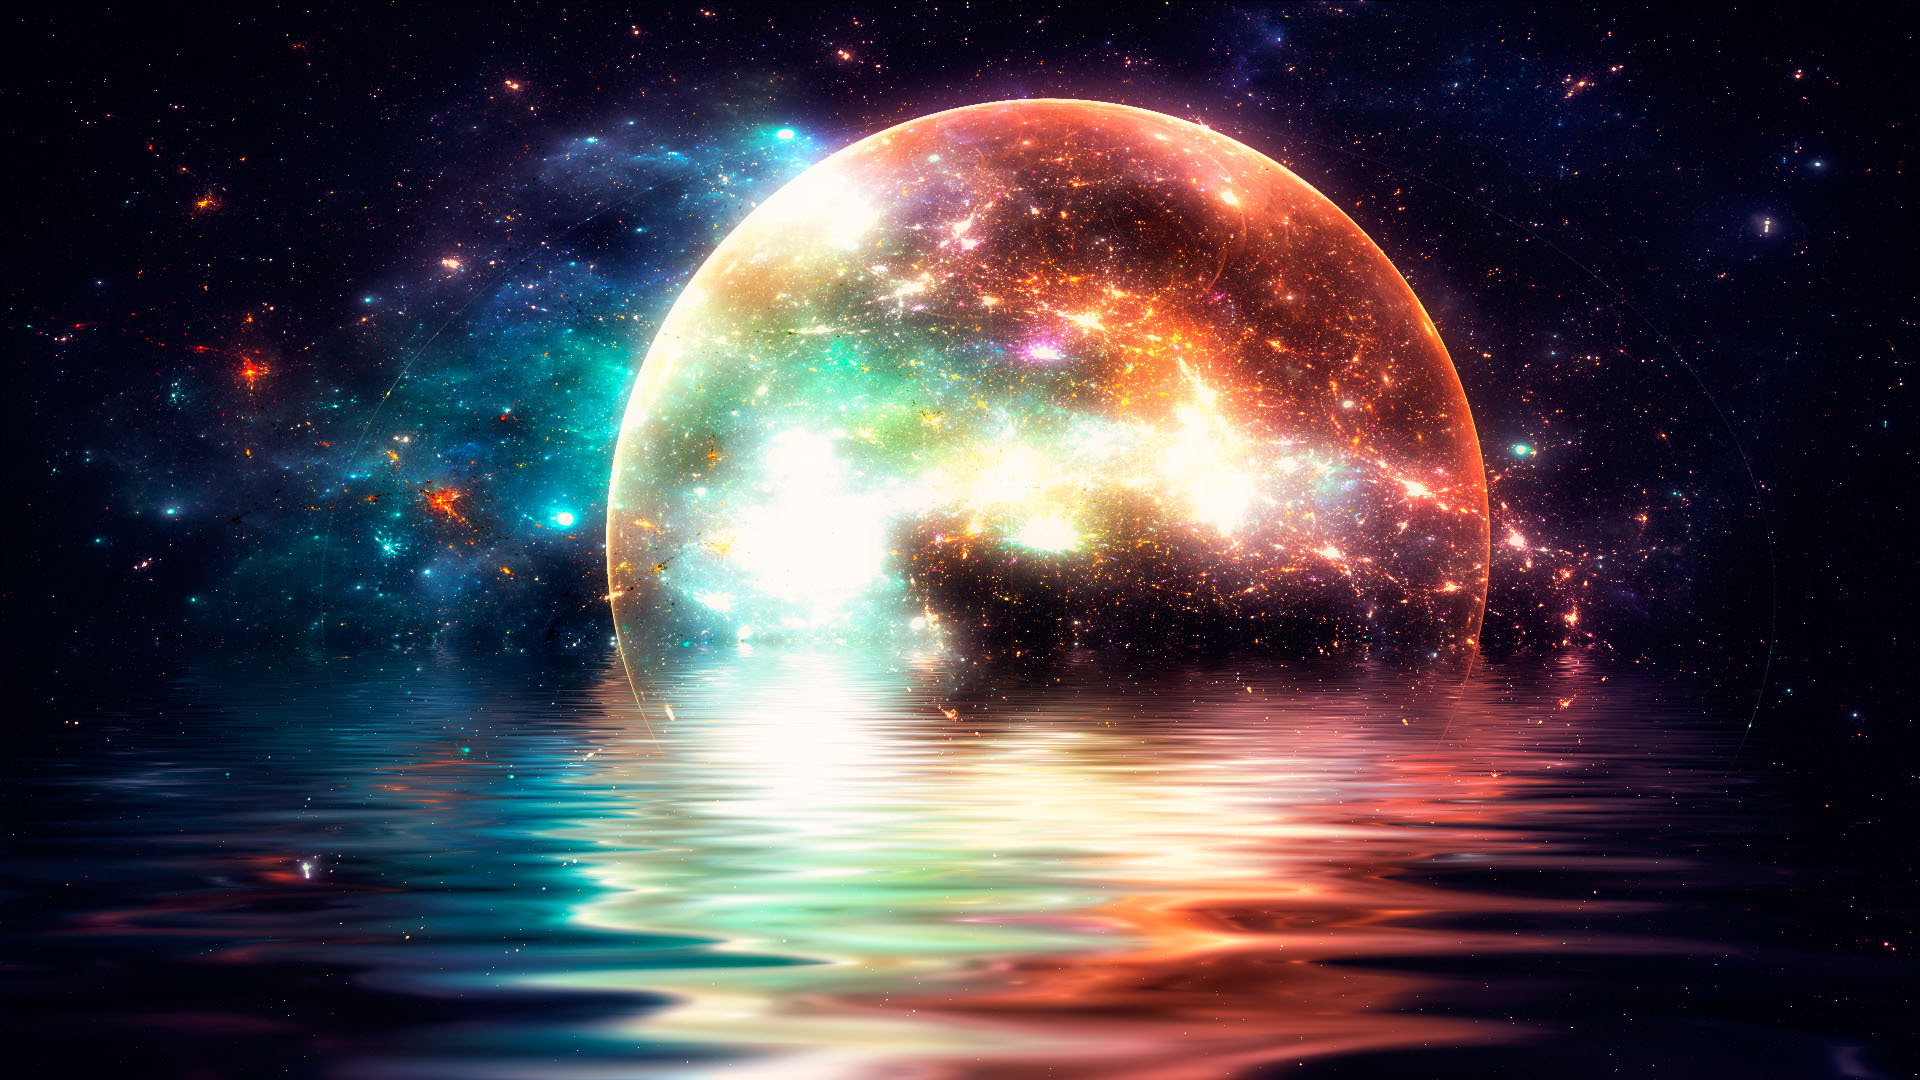
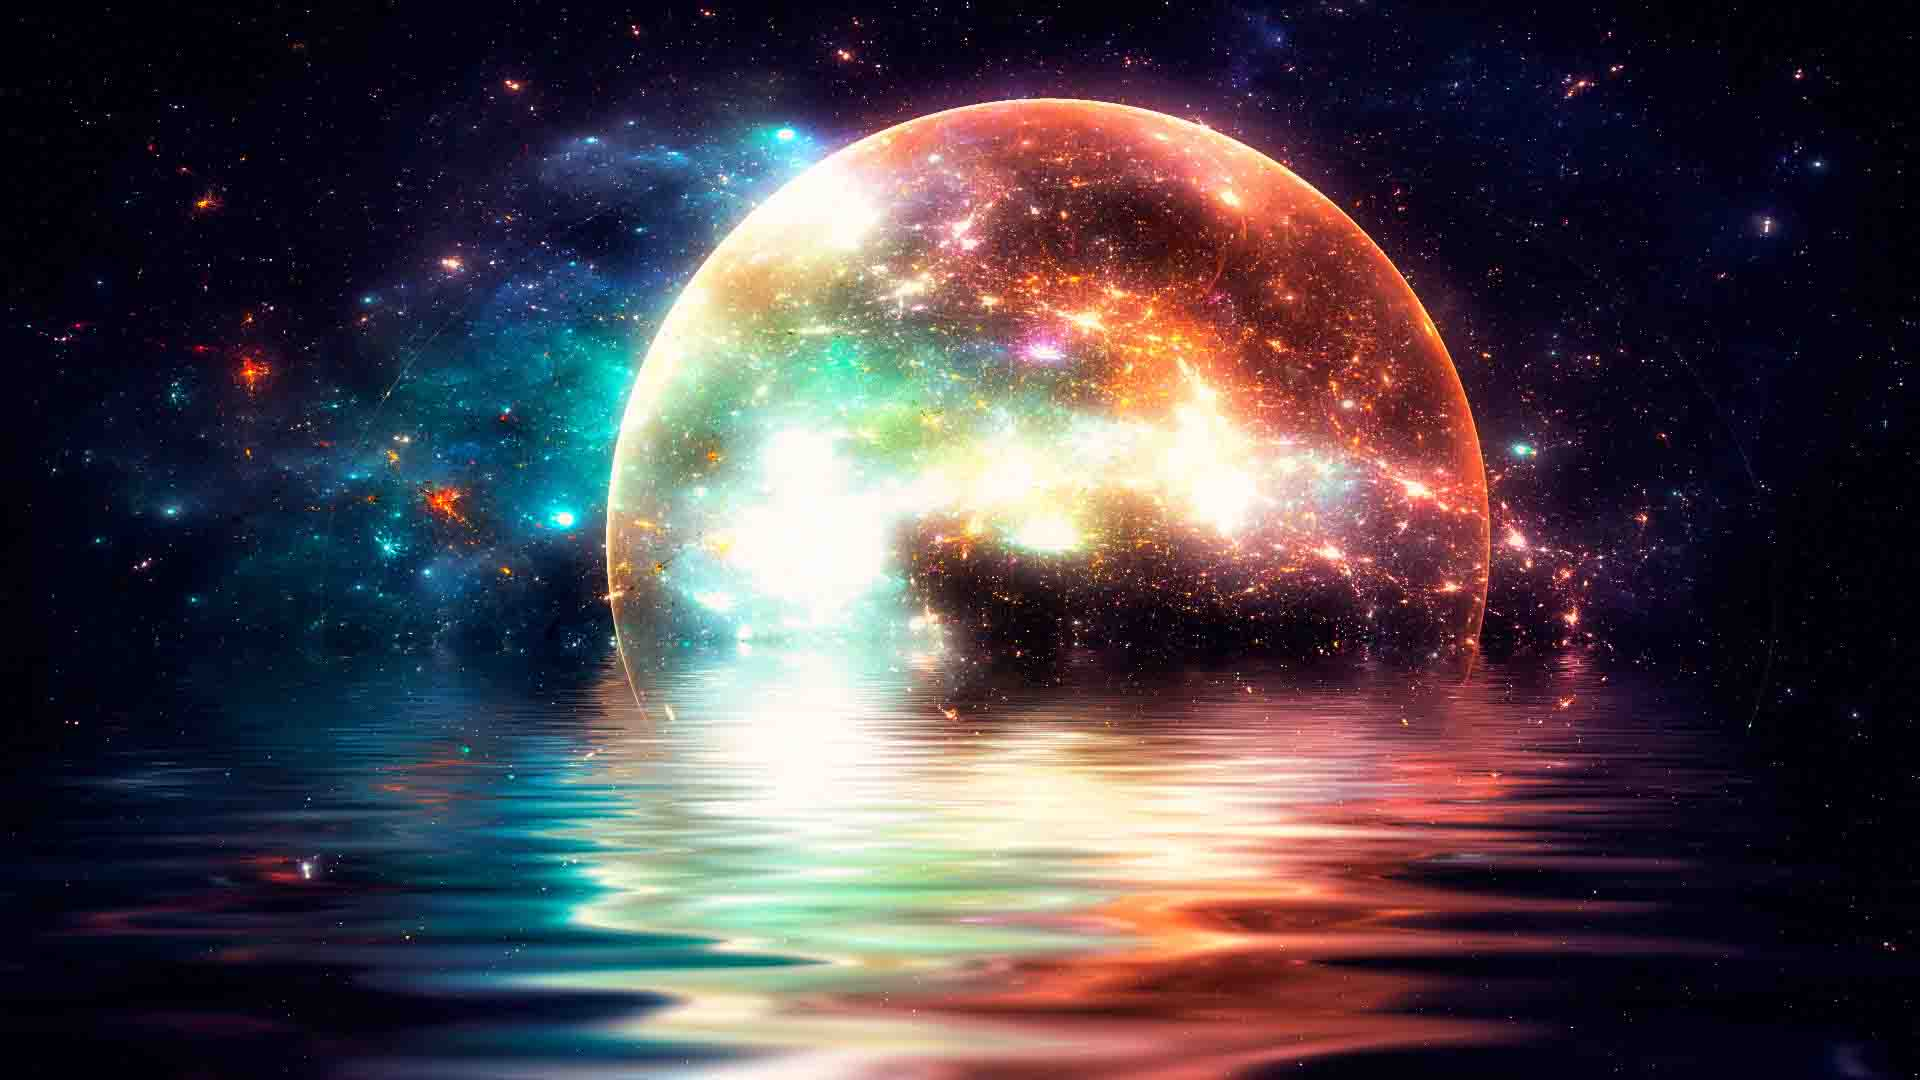
更新头像、压缩封面文件大小

diff --git a/categories/index.html b/categories/index.html
@@ -49,7 +49,7 @@
                     <div class="set">
   <div class="category-mask"></div>
   <h1>分类Categories</h1>
-  <ul class="category-list"><li class="category-list-item"><a class="category-list-link" href="/categories/%E6%8A%80%E6%9C%AFDemo/">技术Demo</a><span class="category-list-count">9</span></li><li class="category-list-item"><a class="category-list-link" href="/categories/%E4%BB%A3%E7%A0%81%E7%A4%BA%E4%BE%8B/">代码示例</a><span class="category-list-count">4</span></li><li class="category-list-item"><a class="category-list-link" href="/categories/%E8%AF%AD%E6%B3%95%E6%8C%87%E4%BB%A4/">语法指令</a><span class="category-list-count">4</span></li><li class="category-list-item"><a class="category-list-link" href="/categories/%E9%97%AE%E9%A2%98%E8%AE%B0%E5%BD%95/">问题记录</a><span class="category-list-count">2</span></li><li class="category-list-item"><a class="category-list-link" href="/categories/%E6%96%87%E7%AB%A0/">文章</a><span class="category-list-count">1</span></li></ul>
+  <ul class="category-list"><li class="category-list-item"><a class="category-list-link" href="/categories/%E6%8A%80%E6%9C%AFDemo/">技术Demo</a><span class="category-list-count">9</span></li><li class="category-list-item"><a class="category-list-link" href="/categories/%E8%AF%AD%E6%B3%95%E6%8C%87%E4%BB%A4/">语法指令</a><span class="category-list-count">4</span></li><li class="category-list-item"><a class="category-list-link" href="/categories/%E4%BB%A3%E7%A0%81%E7%A4%BA%E4%BE%8B/">代码示例</a><span class="category-list-count">4</span></li><li class="category-list-item"><a class="category-list-link" href="/categories/%E9%97%AE%E9%A2%98%E8%AE%B0%E5%BD%95/">问题记录</a><span class="category-list-count">2</span></li><li class="category-list-item"><a class="category-list-link" href="/categories/%E6%96%87%E7%AB%A0/">文章</a><span class="category-list-count">1</span></li></ul>
 </div>
 
                 
